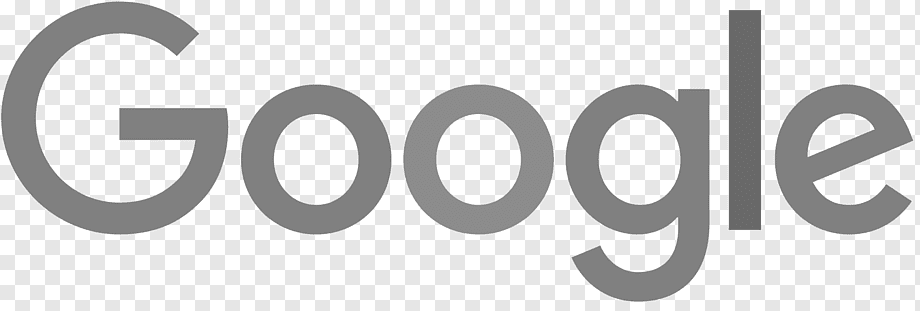
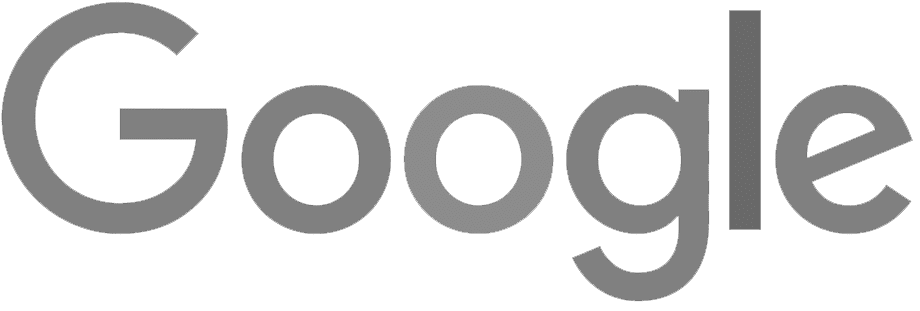
Upload clients section

diff --git a/src/components/Hero.jsx b/src/components/Hero.jsx
@@ -6,10 +6,10 @@ import {
 
 const Hero = () => {
   return (
-    <section className="h-[90vh] grid grid-cols-1 md:grid-cols-8 px-16">
-      <div className="md:col-span-5 flex items-center justify-center p-20">
+    <section className="h-[90vh] grid grid-cols-1 md:grid-cols-8 px-16 max-[1340px]:px-2 max-[1210px]:px-6 max-[1000px]:flex flex-col">
+      <div className="md:col-span-4 flex items-center justify-center p-20 max-[1040px]:px-14 max-[1040px]:-ml-[20px] max-[1000px]:ml-0 max-[500px]:px-4">
         <div className="flex flex-col gap-8">
-          <h2 className="text-7xl font-bold py-4 leading-[7.5rem]">
+          <h2 className="text-7xl font-bold py-4 leading-[7.5rem] max-[1320px]:text-[3.5rem] max-[1320px]:leading-[6.5rem] max-[1210px]:text-[4rem] max-[1040px]:text-[3rem] max-[1040px]:leading-[5rem] max-[1000px]:text-center max-[500px]:text-[2.5rem]">
             Web Design Impacful Digital{" "}
             <span className="text-primary px-8 pb-2 border-4 border-primary relative">
               Products
@@ -19,12 +19,12 @@ const Hero = () => {
               <CircleIcon className="text-2xl border-[5px] border-primary rounded-xl bg-white text-white absolute -right-3 -bottom-3" />
             </span>
           </h2>
-          <p className="text-gray-500 text-2xl leading-[2rem]">
+          <p className="text-gray-500 text-2xl leading-[2rem] max-[1320px]:text-xl max-[1210px]:text-lg max-[1000px]:text-center max-[1000px]:px-16">
             Help find solutions with intuitive and in accordance with client
             business goals, we provide a high-quality services.
           </p>
-          <div className="flex gap-16">
-            <button className="bg-primary text-white px-8 rounded-xl text-xl opacity-80 hover:opacity-100 transition-all duration-300">
+          <div className="flex gap-16 max-[1320px]:flex-col max-[1320px]:gap-6 max-[1000px]:items-center">
+            <button className="bg-primary text-white px-8 rounded-xl text-xl opacity-80 hover:opacity-100 transition-all duration-300 max-[1320px]:w-[200px] max-[1320px]:py-4">
               Contact Us
             </button>
             <button className=" text-gray-700 font-bold flex items-center gap-4 opacity-80 hover:opacity-100 transition-all duration-300">
@@ -36,15 +36,38 @@ const Hero = () => {
           </div>
         </div>
       </div>
-      <div className="md:col-span-3 flex items-center justify-center relative">
+      <div className="md:col-span-4 flex items-center justify-center relative max-[1000px]:ml-10 max-[500px]:mt-10">
+        <div className="absolute">
+          <div className="absolute w-[70px] h-[70px] bg-gray-700 rounded-full left-[125px] bottom-[170px] max-[500px]:left-[90px]">
+            <img
+              src="images/figma.png"
+              alt=""
+              className="w-[70px] h-[70px] object-cover -rotate-[15deg] rounded-full ml-[6px]"
+            />
+          </div>
+          <div className="absolute w-[60px] h-[60px] bg-[#6d1258] rounded-full right-[175px] bottom-[200px] max-[500px]:right-[125px]">
+            <img
+              src="images/adobe.png"
+              alt=""
+              className="w-[60px] h-[60px] object-cover -rotate-[15deg] rounded-full ml-[6px]"
+            />
+          </div>
+          <div className="absolute w-[40px] h-[40px] bg-gray-700 rounded-full right-[320px] bottom-[300px] max-[1210px]:right-[125px] max-[500px]:right-[75px]">
+            <img
+              src="images/sketch.png"
+              alt=""
+              className="w-[40px] h-[40px] object-cover -rotate-[15deg] rounded-full ml-[5px] bg-gray-900 p-2"
+            />
+          </div>
+        </div>
         <div>
           <img
             src="images/hero.png"
             alt=""
-            className="w-[550px] h-[550px] object-cover"
+            className="w-[550px] h-[550px] object-cover max-[500px]:w-[450px] max-[500px]:h-[450px]"
           />
           <div className="flex items-center justify-center">
-            <div className="flex flex-col justify-center items-start shadow-xl bg-white w-[270px] py-4 mr-6 -mt-10 rounded-lg px-8">
+            <div className="flex flex-col justify-center items-start shadow-xl bg-white w-[270px] py-4 mr-6 -mt-10 rounded-lg px-8 relative">
               <div className="flex">
                 <img
                   src="https://img.freepik.com/foto-gratis/sonriente-joven-apuntando-su-mano-su-producto-exhiba-articulo-su-palma-contra-espacio-copia-pie-sobre-pared-blanca_176420-39408.jpg?w=1380&t=st=1675371241~exp=1675371841~hmac=51337543666d48c26e9e18ade092ed7fd57ef4874dda3414b29015a32c9a80a0"
@@ -76,12 +99,14 @@ const Hero = () => {
               <p className="ml-2 flex items-center justify-start gap-2 text-gray-500">
                 <StarIcon className="text-xl text-primary" /> 5.0 (3.1k Reviews)
               </p>
-              <div className="absolute w-[75px] h-[75px] bg-white rounded-lg right-[124px] bottom-[100px] -z-10"></div>
-              <CircleIcon className="absolute right-[83px] bottom-[62px] w-[90px] h-[90px] -z-20 text-primary" />
+              <div className="relative -right-[375px] -bottom-[120px]">
+                <div className="absolute w-[75px] h-[75px] bg-white rounded-lg right-[124px] bottom-[100px] -z-10 max-[500px]:right-[132px]"></div>
+                <CircleIcon className="absolute right-[83px] bottom-[62px] w-[90px] h-[90px] -z-20 text-primary max-[500px]:right-[93px]" />
+              </div>
             </div>
           </div>
         </div>
-        <div className="absolute top-1/2 -translate-y-1/2 left-1/2 -translate-x-1/2 bg-secondary w-[450px] h-[450px] border-[10px] border-primary rounded-full -z-10 -ml-4 mt-[75px]"></div>
+        <div className="absolute top-1/2 -translate-y-1/2 left-1/2 -translate-x-1/2 bg-secondary w-[450px] h-[450px] border-[10px] border-primary rounded-full -z-10 -ml-4 mt-[75px] max-[500px]:w-[350px] max-[500px]:h-[350px] max-[500px]:mt-8"></div>
       </div>
     </section>
   );

diff --git a/src/components/Clients.jsx b/src/components/Clients.jsx
@@ -1,0 +1,26 @@
+const Clients = () => {
+    return(
+        <section className="w-full px-20 pt-12 pb-8 flex flex-col items-center justify-center">
+            <h2 className="text-2xl font-bold text-gray-700 mb-[35px]">Trusted By Greatest Companies</h2>
+            <div className="w-full flex items-center justify-center gap-20">
+                <a href="#" className="">
+                    <img src="images/google.png" alt="" className="w-[150px] opacity-80 hover:opacity-100 transition-all duration-300" />
+                </a>
+                <a href="#" className="">
+                    <img src="images/airbnb.png" alt="" className="w-[150px] opacity-80 hover:opacity-100 transition-all duration-300" />
+                </a>
+                <a href="#" className="">
+                    <img src="images/creative-market.png" alt="" className="w-[150px] opacity-80 hover:opacity-100 transition-all duration-300" />
+                </a>
+                <a href="#" className="">
+                    <img src="images/shopify.png" alt="" className="w-[150px] opacity-80 hover:opacity-100 transition-all duration-300" />
+                </a>
+                <a href="#" className="">
+                    <img src="images/amazon.png" alt="" className="w-[150px] opacity-80 hover:opacity-100 transition-all duration-300" />
+                </a>
+            </div>
+        </section>
+    )
+}
+
+export default Clients;

diff --git a/src/App.jsx b/src/App.jsx
@@ -1,11 +1,13 @@
 import Header from "./components/Header";
 import Hero from "./components/Hero";
+import Clients from "./components/Clients";
 
 function App() {
   return (
     <div>
       <Header />
-      <Hero/>
+      <Hero />
+      <Clients />
     </div>
   );
 }
